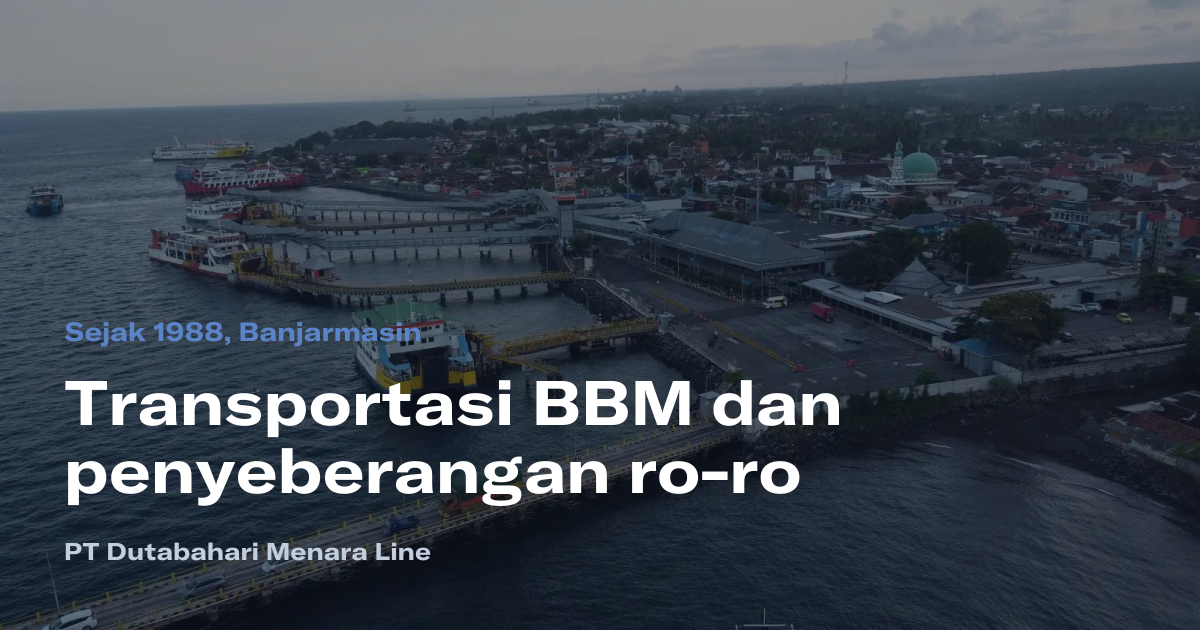
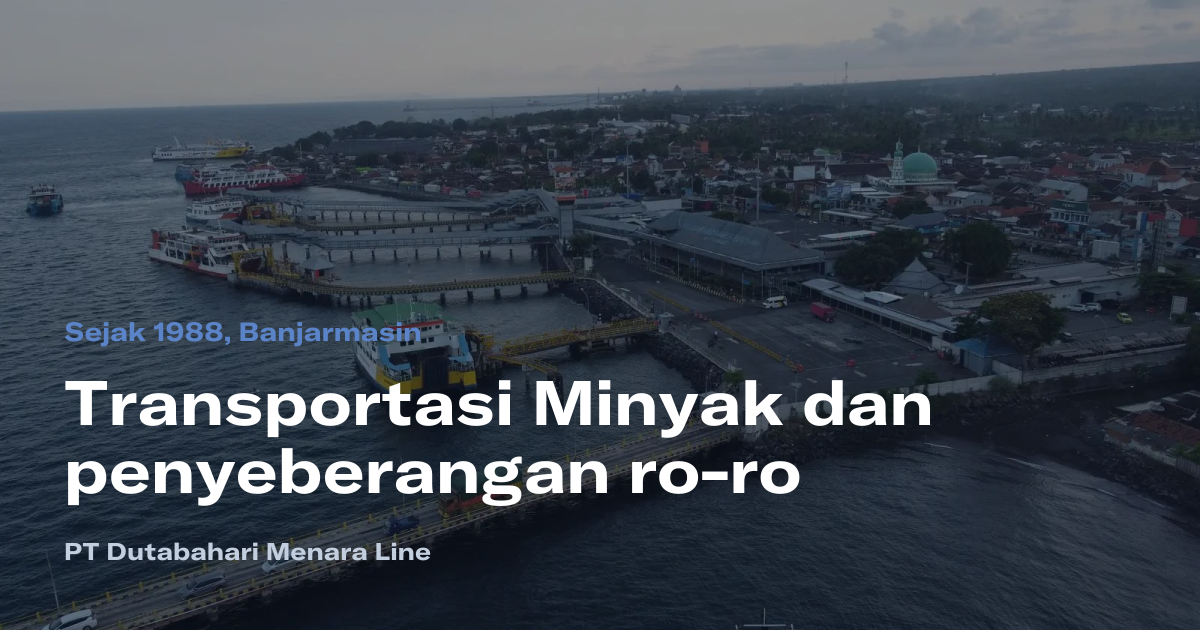
refactor: ganti sebutan "Transportasi BBM" jadi "Transportasi Minyak"
Diterapkan ke metadata halaman, breadcrumb, JSON-LD, label nav/footer,
dropdown form inquiry, category kelas armada (dan filter yang
mencocokkannya), label admin CMS, dan gambar OG korporat (di-generate
ulang). URL /bisnis/transportasi-bbm tidak diubah.

Changed region(s): [[0.4317, 0.6032, 0.8017, 0.6937]]

diff --git a/dml-web/src/lib/cms/fleet-classes-seed.ts b/dml-web/src/lib/cms/fleet-classes-seed.ts
@@ -18,7 +18,7 @@ export const FLEET_CLASSES_SEED = [
   {
     slug: "motor-tanker",
     name: "Motor Tanker",
-    category: "Transportasi BBM",
+    category: "Transportasi Minyak",
     lengthMeters: 95, // unverified: estimasi proporsional dari kapasitas 8 juta liter
     beamMeters: 16, // unverified: estimasi proporsional
     dwt: 9500, // unverified: estimasi proporsional dari total armada
@@ -30,7 +30,7 @@ export const FLEET_CLASSES_SEED = [
   {
     slug: "oil-barge",
     name: "Oil Barge",
-    category: "Transportasi BBM",
+    category: "Transportasi Minyak",
     lengthMeters: 75, // unverified: estimasi proporsional dari kapasitas 4,7 juta liter
     beamMeters: 14, // unverified: estimasi proporsional
     dwt: 5600, // unverified: estimasi proporsional dari total armada
@@ -42,7 +42,7 @@ export const FLEET_CLASSES_SEED = [
   {
     slug: "spob",
     name: "SPOB",
-    category: "Transportasi BBM",
+    category: "Transportasi Minyak",
     lengthMeters: 55, // unverified: estimasi proporsional dari kapasitas 1,6 juta liter
     beamMeters: 11, // unverified: estimasi proporsional
     dwt: 1900, // unverified: estimasi proporsional dari total armada
@@ -54,7 +54,7 @@ export const FLEET_CLASSES_SEED = [
   {
     slug: "tugboat",
     name: "Tugboat",
-    category: "Transportasi BBM",
+    category: "Transportasi Minyak",
     lengthMeters: 32, // unverified: estimasi umum tugboat pendamping oil barge
     beamMeters: 9, // unverified: estimasi umum
     dwt: 450, // unverified: estimasi proporsional dari total armada

diff --git a/dml-web/src/app/(site)/bisnis/transportasi-bbm/page.tsx b/dml-web/src/app/(site)/bisnis/transportasi-bbm/page.tsx
@@ -15,7 +15,7 @@ import { BlueprintSvg } from "@/features/fleet/blueprint-svg";
 import { VesselRoster } from "@/features/fleet/vessel-roster";
 
 export const metadata: Metadata = buildMetadata({
-  title: "Transportasi BBM | PT Dutabahari Menara Line",
+  title: "Transportasi Minyak | PT Dutabahari Menara Line",
   description:
     "Armada motor tanker, oil barge, SPOB, dan tugboat PT Dutabahari Menara Line untuk distribusi bahan bakar cair ke pelabuhan dan pulau utama Indonesia.",
   path: "/bisnis/transportasi-bbm",
@@ -31,16 +31,16 @@ export default async function TransportasiBbmPage() {
   ]);
   const bbm = sub.bbm;
   const STS_STEPS = bbm.steps;
-  const BBM_CLASSES = fleetClasses.filter((fleetClass) => fleetClass.category === "Transportasi BBM");
+  const BBM_CLASSES = fleetClasses.filter((fleetClass) => fleetClass.category === "Transportasi Minyak");
   const trail = breadcrumbJsonLd([
     { name: "Beranda", path: "/" },
     { name: "Bisnis Kami", path: "/bisnis" },
-    { name: "Transportasi BBM", path: "/bisnis/transportasi-bbm" },
+    { name: "Transportasi Minyak", path: "/bisnis/transportasi-bbm" },
   ]);
   const line = mainLines.find((entry) => entry.id === "transportasi-bbm");
   const hero = MEDIA["bisnis"].find((frame) => frame.id === "lini-bbm") ?? null;
   const service = serviceJsonLd(COMPANY, {
-    name: "Transportasi BBM",
+    name: "Transportasi Minyak",
     description: line?.summary ?? "",
     path: "/bisnis/transportasi-bbm",
   });

diff --git a/dml-web/src/payload/globals/HomeHero.ts b/dml-web/src/payload/globals/HomeHero.ts
@@ -25,7 +25,7 @@ export const HomeHero: GlobalConfig = {
     {
       name: "eyebrow",
       type: "text",
-      required: true,
+      required: false,
       admin: { description: "Baris kecil huruf kapital di atas judul." },
     },
     {
@@ -40,7 +40,7 @@ export const HomeHero: GlobalConfig = {
     {
       name: "subheadline",
       type: "text",
-      required: true,
+      required: false,
       admin: { description: "Satu kalimat di bawah judul. Maksimal sekitar 20 kata." },
     },
     {
@@ -53,7 +53,7 @@ export const HomeHero: GlobalConfig = {
     {
       name: "bbm",
       type: "group",
-      label: "Kartu kiri — Transportasi BBM",
+      label: "Kartu kiri — Transportasi Minyak",
       fields: [
         { name: "label", type: "text", required: true },
         {

diff --git a/dml-web/src/features/fleet/vessel-roster.test.tsx b/dml-web/src/features/fleet/vessel-roster.test.tsx
@@ -6,7 +6,7 @@ import { VESSELS_SEED } from "@/lib/cms/vessels-seed";
 
 const FLEET_CLASSES = FLEET_CLASSES_SEED.map((fleetClass) => ({ ...fleetClass, vesselCount: 0 }));
 
-const BBM_CLASSES = FLEET_CLASSES.filter((fleetClass) => fleetClass.category === "Transportasi BBM");
+const BBM_CLASSES = FLEET_CLASSES.filter((fleetClass) => fleetClass.category === "Transportasi Minyak");
 
 describe("VesselRoster", () => {
   it("menampilkan judul setiap kelas yang diberikan", () => {

diff --git a/dml-web/src/app/(site)/bisnis/transportasi-bbm/permintaan-informasi/page.tsx b/dml-web/src/app/(site)/bisnis/transportasi-bbm/permintaan-informasi/page.tsx
@@ -41,7 +41,7 @@ export default async function PermintaanInformasiPage({
   const trail = breadcrumbJsonLd([
     { name: "Beranda", path: "/" },
     { name: "Bisnis Kami", path: "/bisnis" },
-    { name: "Transportasi BBM", path: "/bisnis/transportasi-bbm" },
+    { name: "Transportasi Minyak", path: "/bisnis/transportasi-bbm" },
     {
       name: "Permintaan Informasi",
       path: "/bisnis/transportasi-bbm/permintaan-informasi",

diff --git a/dml-web/src/features/bisnis/subpages-defaults.ts b/dml-web/src/features/bisnis/subpages-defaults.ts
@@ -47,7 +47,7 @@ export type BisnisSubpagesData = {
 export const BISNIS_SUBPAGES_DEFAULTS: BisnisSubpagesData = {
   bbm: {
     eyebrow: "Lini utama",
-    title: "Transportasi BBM",
+    title: "Transportasi Minyak",
     kelasArmadaHeading: "Kelas armada",
     kelasArmadaDesc:
       "Empat kelas kapal pengangkut BBM. Panjang, lebar, dan DWT di bawah masih estimasi proporsional, bukan angka dari company profile.",

diff --git a/dml-web/src/features/home/business-lines.test.tsx b/dml-web/src/features/home/business-lines.test.tsx
@@ -33,7 +33,7 @@ describe("BusinessLines", () => {
     expect(container.querySelectorAll("[data-testid='bab-lini-bisnis']")).toHaveLength(
       mainLines.length,
     );
-    expect(screen.getByText("Transportasi BBM")).toBeInTheDocument();
+    expect(screen.getByText("Transportasi Minyak")).toBeInTheDocument();
     expect(screen.getByText("Penyeberangan Ro-Ro")).toBeInTheDocument();
   });
 

diff --git a/dml-web/src/app/(site)/layout.tsx b/dml-web/src/app/(site)/layout.tsx
@@ -14,7 +14,7 @@ import "../globals.css";
 export const metadata: Metadata = buildMetadata({
   title: "PT Dutabahari Menara Line",
   description:
-    "Perusahaan pelayaran Banjarmasin sejak 1988. Transportasi BBM, penyeberangan ro-ro, dan perawatan kapal.",
+    "Perusahaan pelayaran Banjarmasin sejak 1988. Transportasi Minyak, penyeberangan ro-ro, dan perawatan kapal.",
   path: "/",
 });
 

diff --git a/dml-web/src/features/inquiry/business-inquiry-form.tsx b/dml-web/src/features/inquiry/business-inquiry-form.tsx
@@ -9,7 +9,7 @@ import { TextField } from "@/components/ui/text-field";
 import { SubmitButton } from "@/components/ui/submit-button";
 
 const SERVICE_OPTIONS = [
-  { value: "transportasi-bbm", label: "Transportasi BBM" },
+  { value: "transportasi-bbm", label: "Transportasi Minyak" },
   { value: "penumpang-roro", label: "Penyeberangan Ro-Ro" },
 ] as const;
 

diff --git a/dml-web/src/components/layout/site-footer.test.tsx b/dml-web/src/components/layout/site-footer.test.tsx
@@ -40,7 +40,7 @@ const COMPANY: CompanyProfileData = {
 const FOOTER_GROUPS = [
   {
     heading: "Bisnis",
-    items: [{ label: "Transportasi BBM", href: "/bisnis/transportasi-bbm" }],
+    items: [{ label: "Transportasi Minyak", href: "/bisnis/transportasi-bbm" }],
   },
 ];
 

diff --git a/dml-web/scripts/prepare-og-corporate.tsx b/dml-web/scripts/prepare-og-corporate.tsx
@@ -35,7 +35,7 @@ async function main() {
     (
       <OgCard
         kicker="Sejak 1988, Banjarmasin"
-        title="Transportasi BBM dan penyeberangan ro-ro"
+        title="Transportasi Minyak dan penyeberangan ro-ro"
         imageUrl={imageUrl}
       />
     ),

diff --git a/dml-web/src/payload/globals/BusinessSubpages.ts b/dml-web/src/payload/globals/BusinessSubpages.ts
@@ -18,7 +18,7 @@ export const BusinessSubpages: GlobalConfig = {
   fields: [
     {
       type: "collapsible",
-      label: "Transportasi BBM",
+      label: "Transportasi Minyak",
       fields: [
         {
           name: "bbm",
